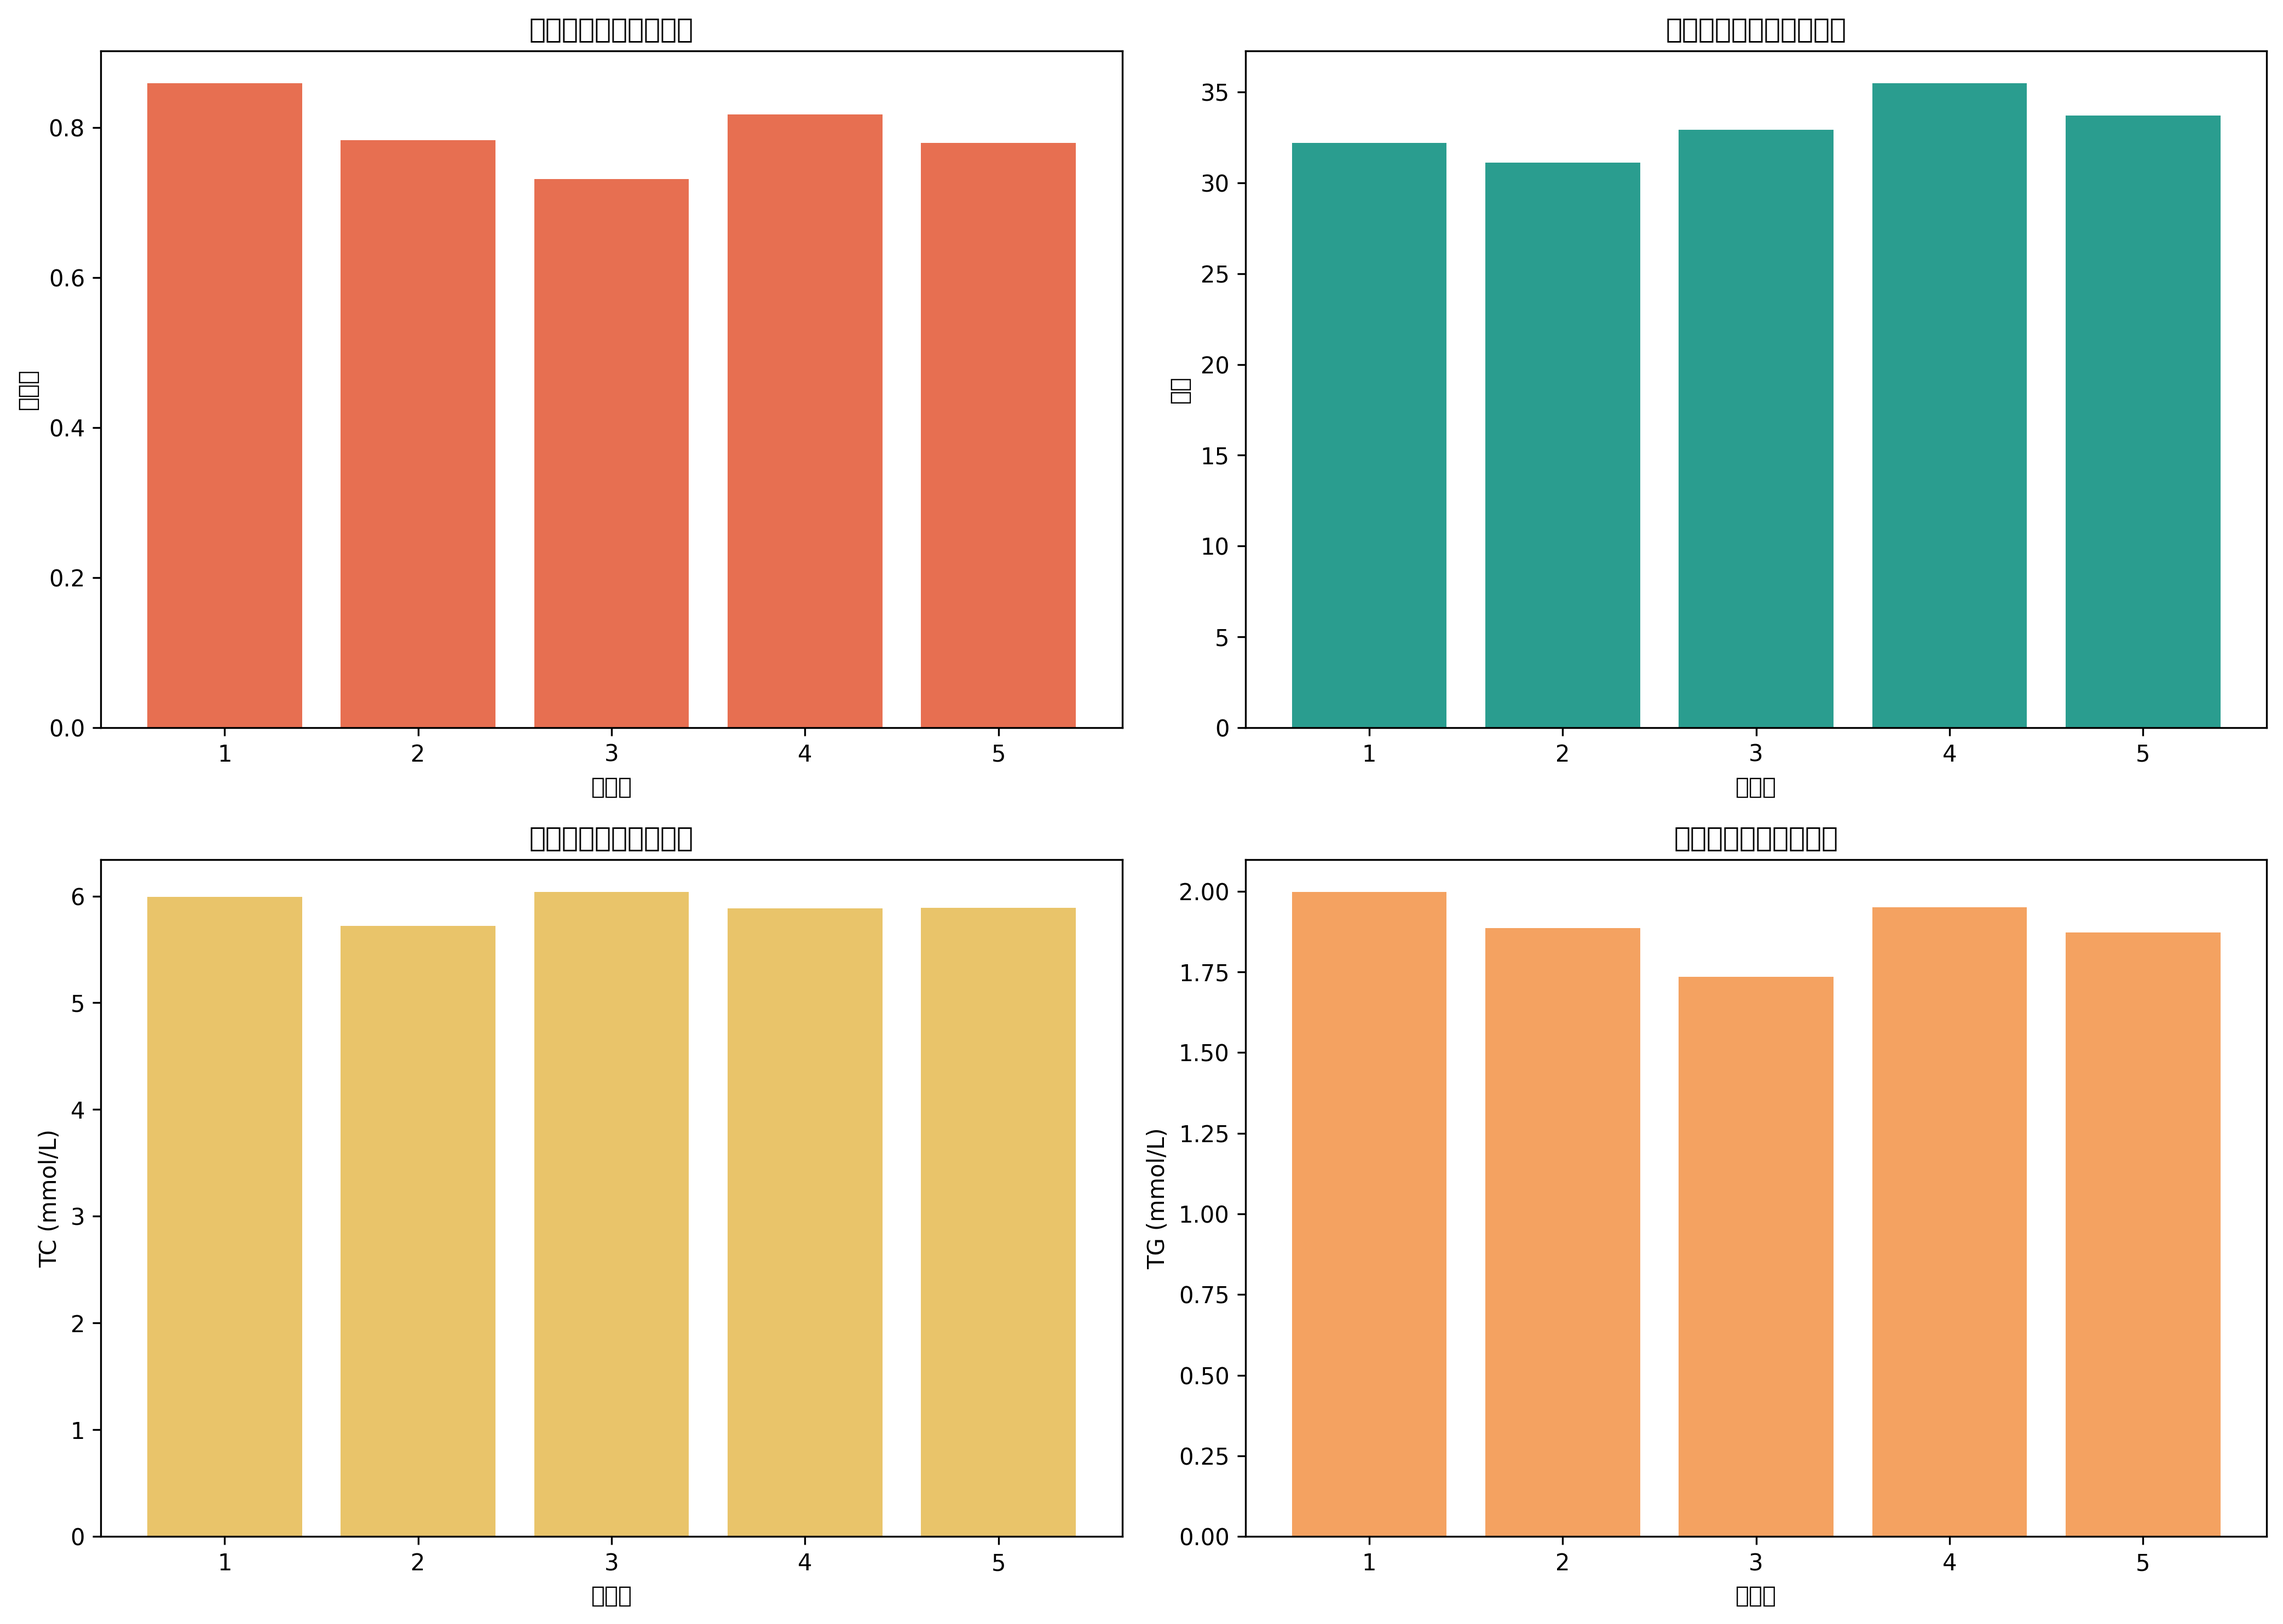
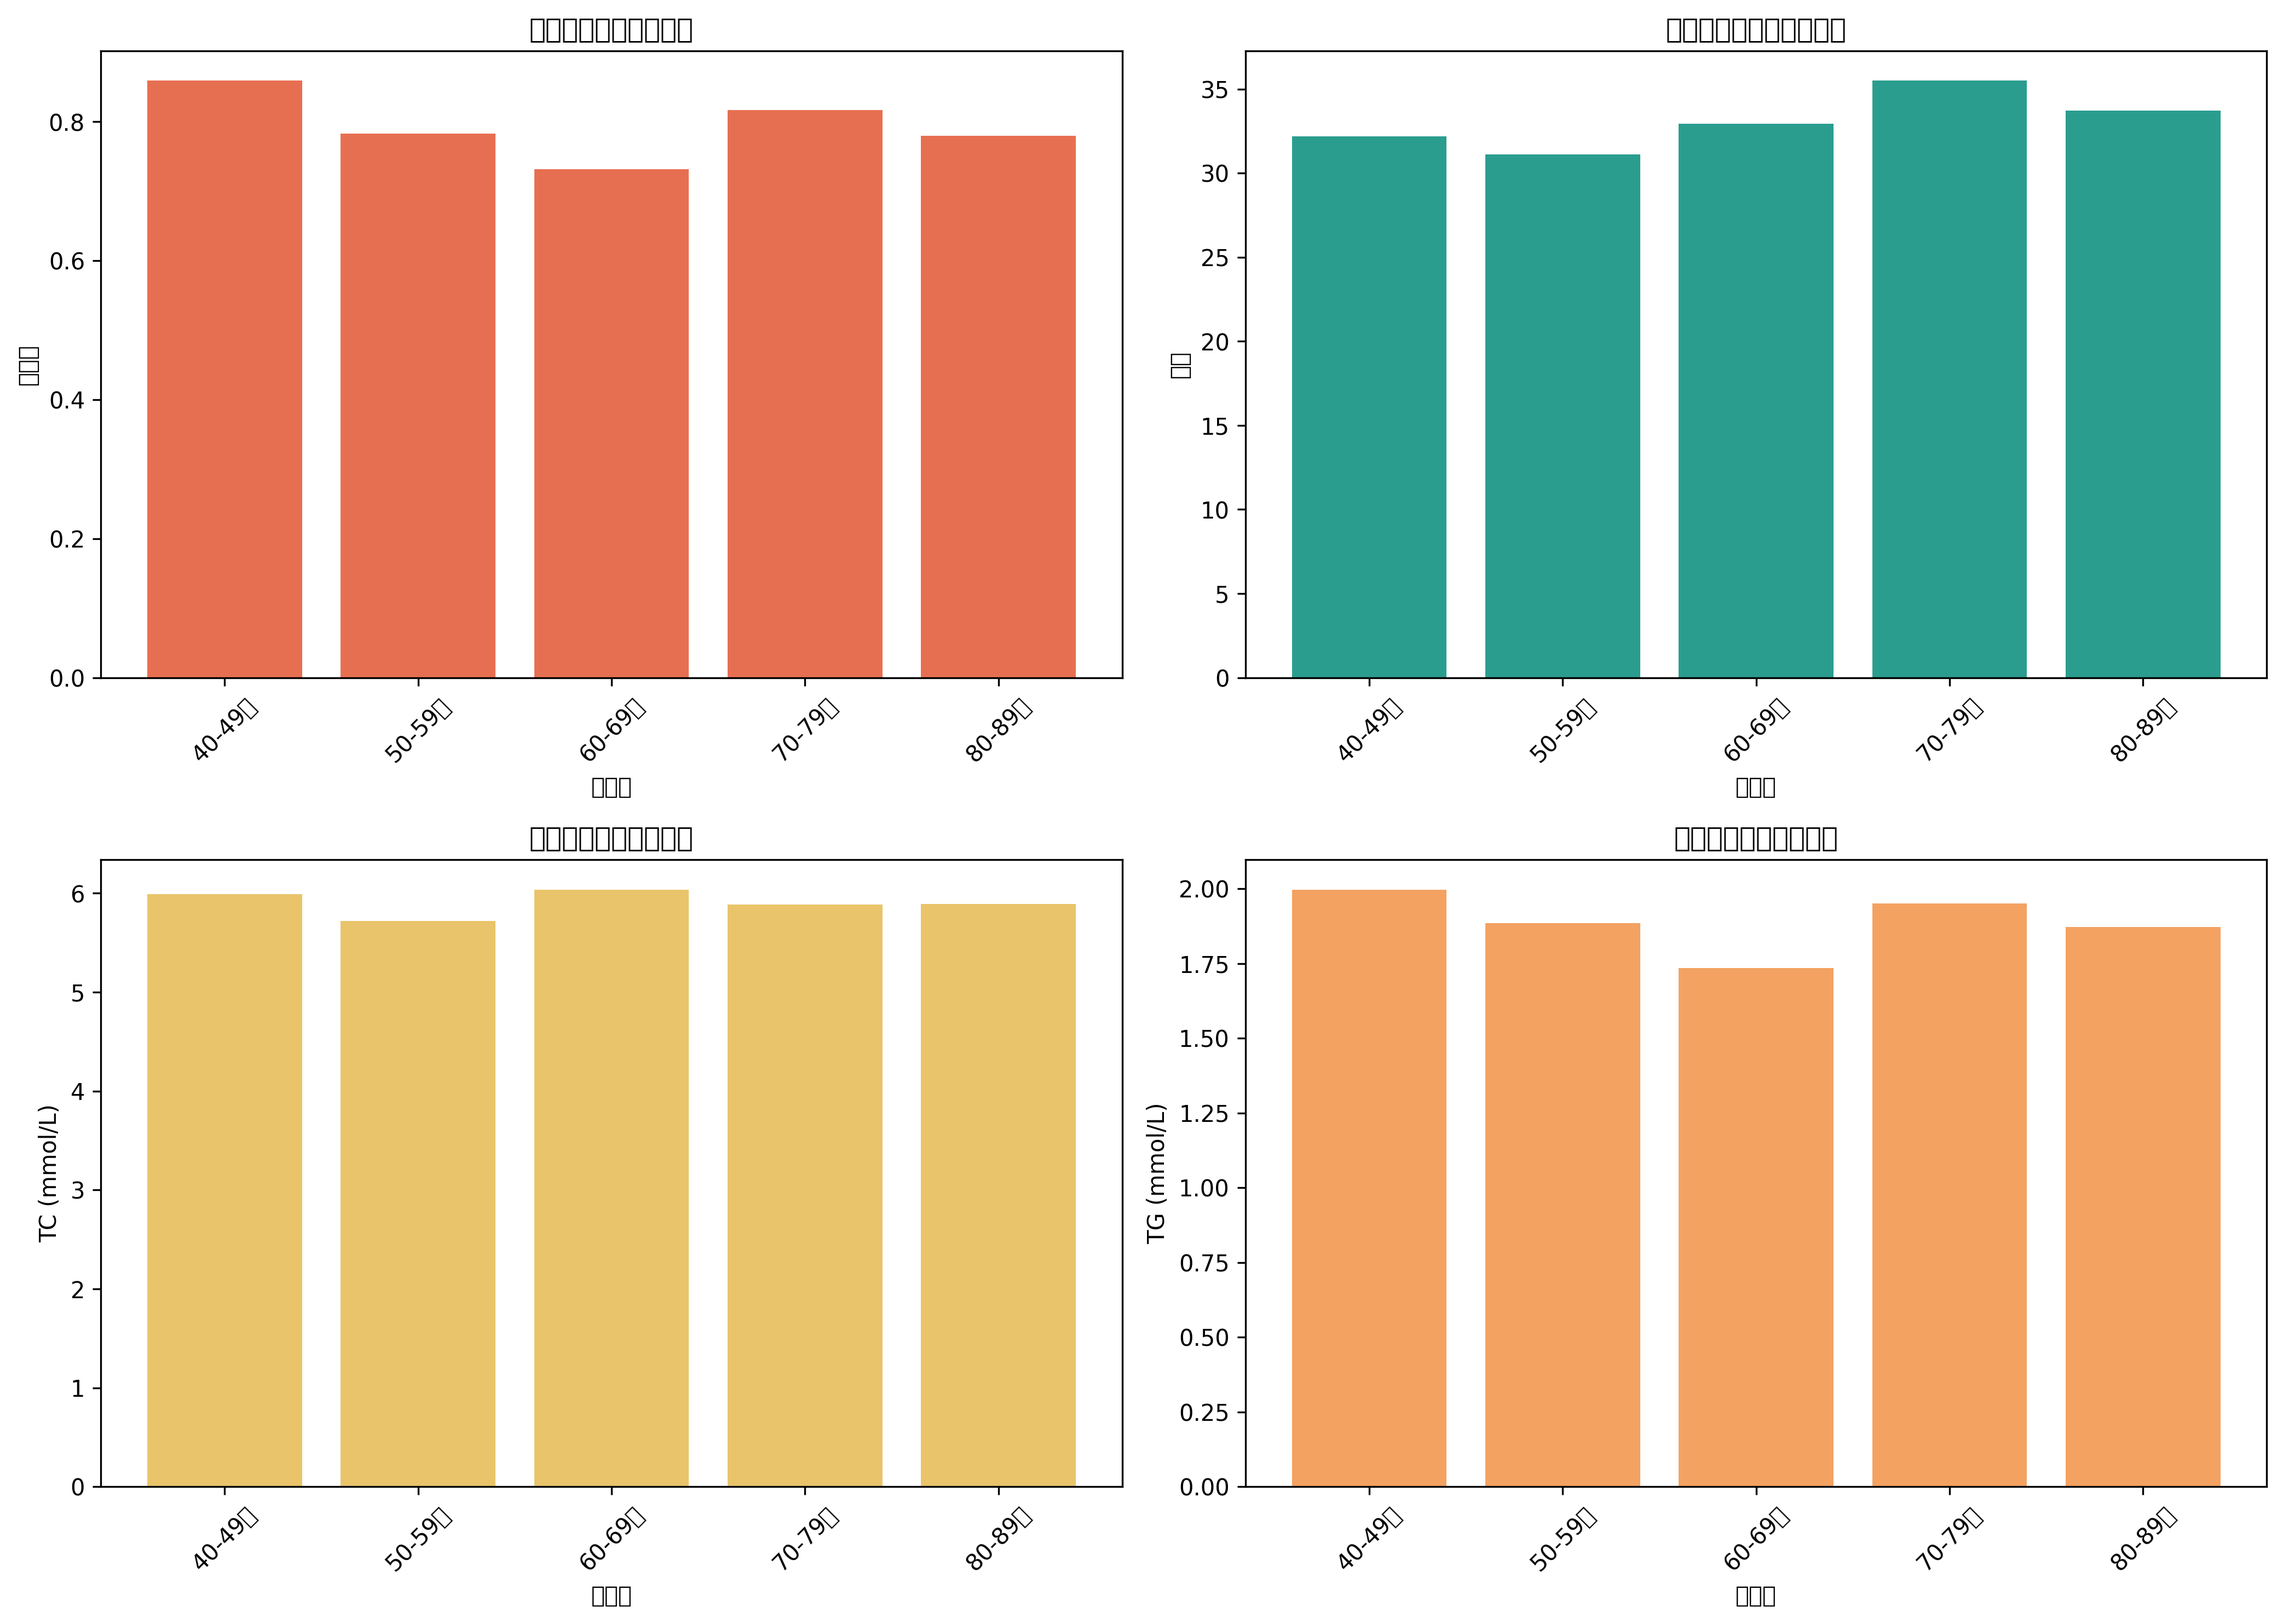
feat: 审查仓库代码

diff --git a/Project_mat/age_group_analysis.py b/Project_mat/age_group_analysis.py
@@ -26,6 +26,12 @@ print(f"年龄约束：{AGE_CONSTRAINTS}")
 print(f"数据中的年龄组分布：")
 print(df['年龄组'].value_counts())
 
+# 映射年龄组数字到实际年龄段
+age_group_mapping = AGE_CONSTRAINTS.get('age_groups', {})
+print("\n年龄组映射：")
+for key, value in age_group_mapping.items():
+    print(f"{key}: {value}")
+
 # 候选特征池构建
 basic_features = ['平和质', '气虚质', '阳虚质', '阴虚质', '痰湿质', '湿热质', '血瘀质', '气郁质', '特禀质', '体质标签',
                  'TC（总胆固醇）', 'TG（甘油三酯）', 'LDL-C（低密度脂蛋白）', 'HDL-C（高密度脂蛋白）', '空腹血糖', '血尿酸', 'BMI',
@@ -199,7 +205,8 @@ print("\n=== 年龄分组分析 ===")
 grouped = df.groupby('年龄组')
 
 for age_group, group in grouped:
-    print(f"\n年龄组 {age_group}：")
+    age_group_label = age_group_mapping.get(age_group, f"{age_group}")
+    print(f"\n年龄组 {age_group} ({age_group_label})：")
     print(f"样本数: {len(group)}")
     print(f"高血脂患病率: {group[target].mean():.4f}")
     print(f"痰湿质平均得分: {group[target_phlegm].mean():.4f}")
@@ -336,32 +343,39 @@ group_stats = df.groupby('年龄组').agg({
     'TG（甘油三酯）': 'mean'
 }).reset_index()
 
+# 添加实际年龄组标签
+group_stats['年龄组标签'] = group_stats['年龄组'].map(age_group_mapping)
+
 # 绘制子图
 fig, axes = plt.subplots(2, 2, figsize=(14, 10))
 
 # 高血脂患病率
-axes[0, 0].bar(group_stats['年龄组'], group_stats['高血脂症二分类标签'], color='#E76F51')
+axes[0, 0].bar(group_stats['年龄组标签'], group_stats['高血脂症二分类标签'], color='#E76F51')
 axes[0, 0].set_title('各年龄组高血脂患病率')
 axes[0, 0].set_xlabel('年龄组')
 axes[0, 0].set_ylabel('患病率')
+axes[0, 0].tick_params(axis='x', rotation=45)
 
 # 痰湿质得分
-axes[0, 1].bar(group_stats['年龄组'], group_stats['痰湿质'], color='#2A9D8F')
+axes[0, 1].bar(group_stats['年龄组标签'], group_stats['痰湿质'], color='#2A9D8F')
 axes[0, 1].set_title('各年龄组痰湿质平均得分')
 axes[0, 1].set_xlabel('年龄组')
 axes[0, 1].set_ylabel('得分')
+axes[0, 1].tick_params(axis='x', rotation=45)
 
 # TC水平
-axes[1, 0].bar(group_stats['年龄组'], group_stats['TC（总胆固醇）'], color='#E9C46A')
+axes[1, 0].bar(group_stats['年龄组标签'], group_stats['TC（总胆固醇）'], color='#E9C46A')
 axes[1, 0].set_title('各年龄组总胆固醇水平')
 axes[1, 0].set_xlabel('年龄组')
 axes[1, 0].set_ylabel('TC (mmol/L)')
+axes[1, 0].tick_params(axis='x', rotation=45)
 
 # TG水平
-axes[1, 1].bar(group_stats['年龄组'], group_stats['TG（甘油三酯）'], color='#F4A261')
+axes[1, 1].bar(group_stats['年龄组标签'], group_stats['TG（甘油三酯）'], color='#F4A261')
 axes[1, 1].set_title('各年龄组甘油三酯水平')
 axes[1, 1].set_xlabel('年龄组')
 axes[1, 1].set_ylabel('TG (mmol/L)')
+axes[1, 1].tick_params(axis='x', rotation=45)
 
 plt.tight_layout()
 plt.savefig('figure2_年龄分组分析.png', dpi=300, bbox_inches='tight')

diff --git a/Project_mat/config/constants.py b/Project_mat/config/constants.py
@@ -1,25 +1,81 @@
 # 赛题约束常量定义
-
 # 成本相关（附表2）
 COST_MAPPING = {
-    'intervention_type_1': 100,  # 假设值，需要根据实际附表2填写
-    'intervention_type_2': 200,
-    'intervention_type_3': 300
+    # 中医调理成本（月）
+    'traditional_chinese_medicine_1': 30,  # 1级调理
+    'traditional_chinese_medicine_2': 80,  # 2级调理
+    'traditional_chinese_medicine_3': 130,  # 3级调理
+    # 活动干预成本（单次）
+    'activity_intervention_1': 3,  # 1级强度
+    'activity_intervention_2': 5,  # 2级强度
+    'activity_intervention_3': 8   # 3级强度
 }
-
 # 阈值相关（附表3）
 THRESHOLDS = {
-    'risk_level_1': 0.3,  # 假设值，需要根据实际附表3填写
-    'risk_level_2': 0.6,
-    'risk_level_3': 0.8
+    # 风险等级阈值
+    'risk_probability': 0.35,  # ROC曲线约登指数确定的最优阈值
+    # 高风险规则
+    'high_risk': {
+        'lipid_abnormality_count': 2,  # 血脂异常项数≥2
+        'lipid_abnormality_count_1痰湿': 62,  # 血脂异常项数=1且痰湿积分≥62
+        'normal_lipid_痰湿': 80,  # 血脂正常且痰湿积分≥80
+        'normal_lipid_活动': 40  # 血脂正常且活动总分<40
+    },
+    # 低风险规则
+    'low_risk': {
+        '痰湿积分': 60,  # 痰湿积分<60
+        '活动总分': 40,  # 活动总分≥40
+        'risk_probability': 0.35  # 模型预测概率<0.35
+    }
 }
-
 # 年龄约束
 AGE_CONSTRAINTS = {
-    'min_age': 18,  # 假设值，需要根据实际约束填写
-    'max_age': 65
+    'min_age': 40,  # 最小年龄
+    'max_age': 89,  # 最大年龄
+    'age_groups': {
+        1: '40-49岁',
+        2: '50-59岁',
+        3: '60-69岁',
+        4: '70-79岁',
+        5: '80-89岁'
+    }
 }
-
+# 分层变量
+STRATIFICATION = {
+    # 活动能力分层
+    'activity_level': {
+        'low': 40,    # <40
+        'medium': 59, # 40-59
+        'high': 60    # ≥60
+    },
+    # 痰湿积分分层
+    'phlegm_dampness': {
+        'low': 58,    # ≤58
+        'medium': 61, # 59-61
+        'high': 62    # ≥62
+    }
+}
+# 干预参数
+INTERVENTION_PARAMS = {
+    # 中医调理降幅（月）
+    'tcm_reduction': {
+        'level_1': 0.01,  # 1级调理：1%
+        'level_2': 0.02,  # 2级调理：2%
+        'level_3': 0.03   # 3级调理：3%
+    },
+    # 活动干预参数
+    'activity_params': {
+        'min_frequency': 5,  # 每周≥5次起效
+        'intensity_reduction': 0.03,  # 每升1级强度月增3%降幅
+        'frequency_reduction': 0.01   # 每增1次频次月增1%降幅
+    },
+    # 约束
+    'constraints': {
+        'max_monthly_reduction': 0.20,  # 月总降幅≤20%
+        'max_total_cost': 2000,  # 单人6个月总成本≤2000元
+        'max_months': 6  # 干预周期6个月
+    }
+}
 # 其他常量
 DEFAULT_TRAIN_TEST_SPLIT = 0.8
 RANDOM_SEED = 42
